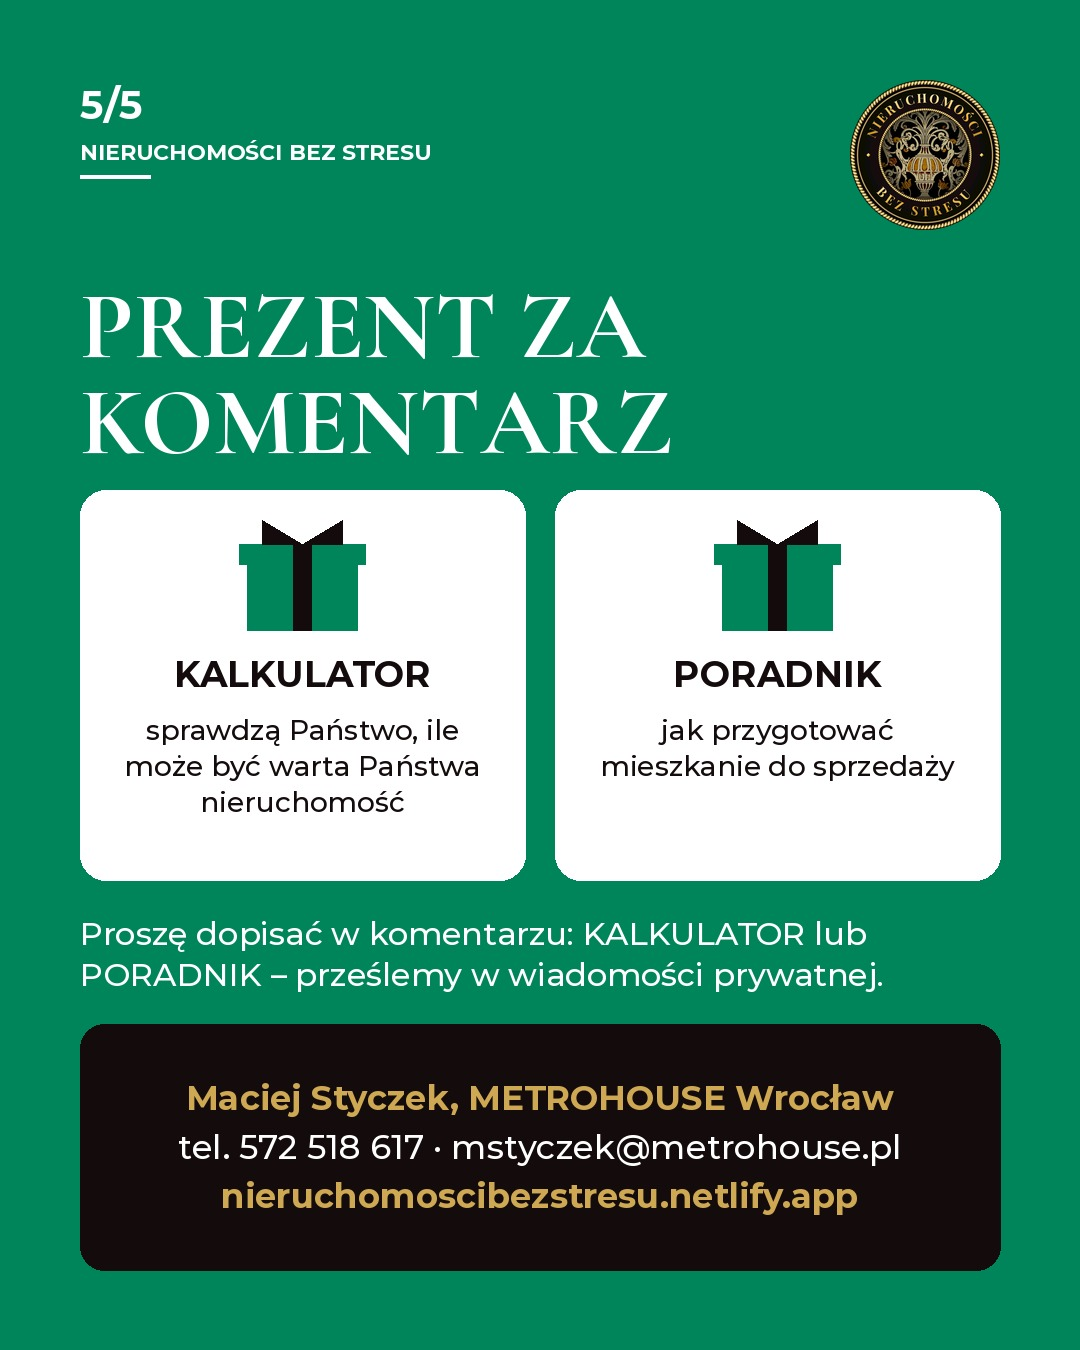
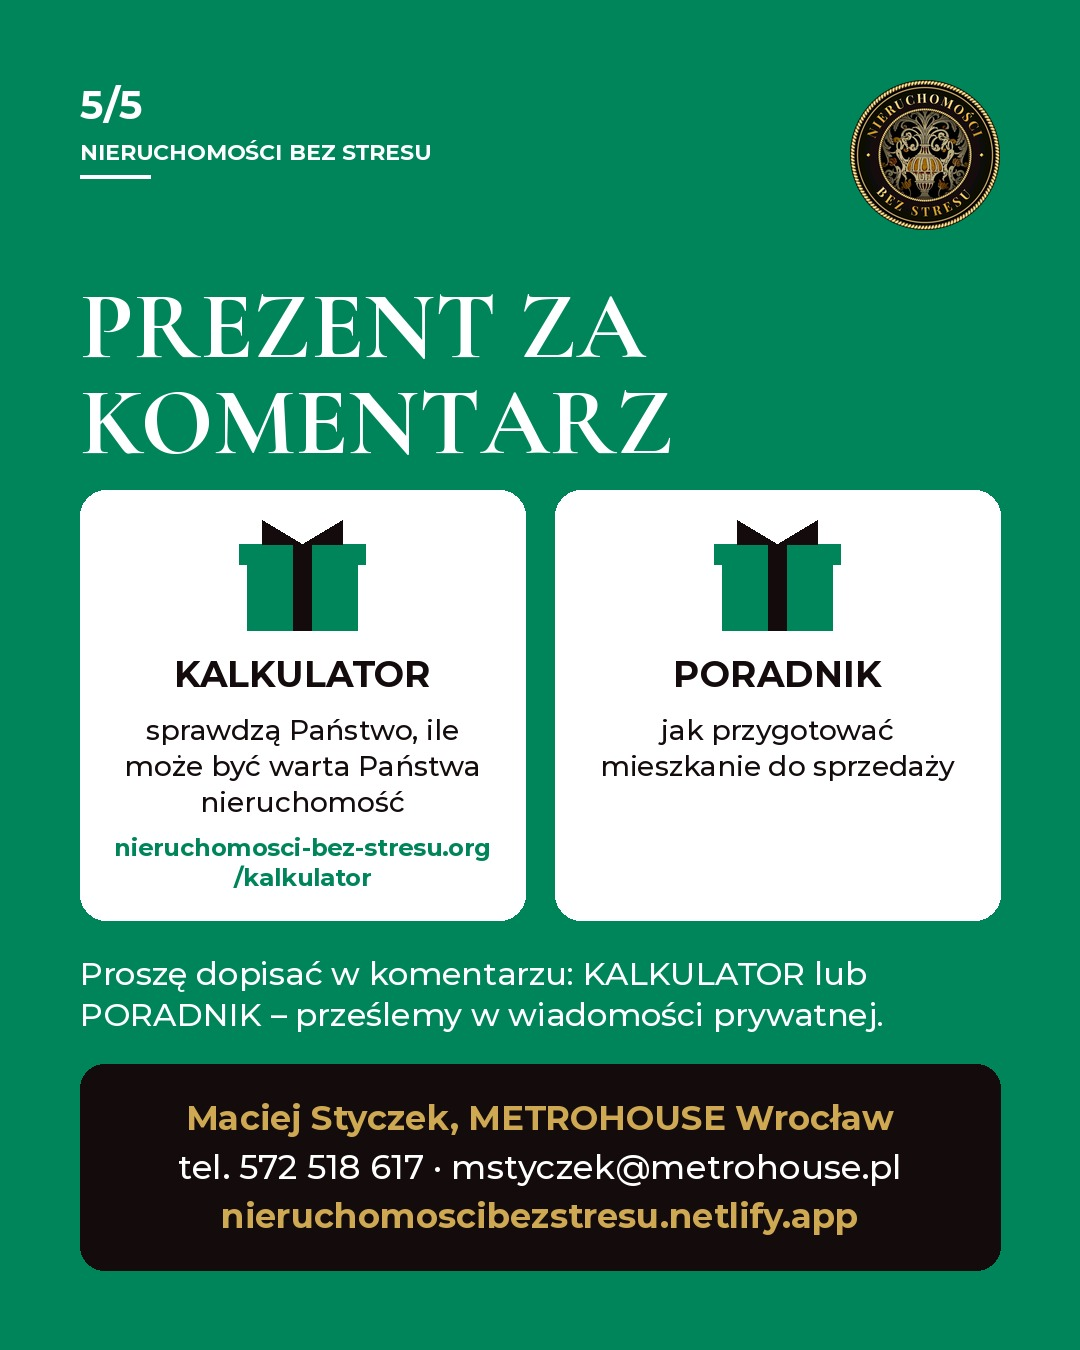
Dodaj link do kalkulatora w poście i na slajdzie 5
Claude-Session: https://claude.ai/code/session_016CSz72ixcAJkDnqqqfxwXU

Changed region(s): [[0.0611, 0.6222, 0.9472, 0.9333]]

diff --git a/posty/2026-11-agenci-irytuje/generuj_karuzele.py b/posty/2026-11-agenci-irytuje/generuj_karuzele.py
@@ -1,0 +1,343 @@
+# Karuzela „Co irytuje w agentach nieruchomości?” – 5 slajdów 1080x1350.
+from PIL import Image, ImageDraw, ImageFont
+import os
+import sys
+
+FD = '/tmp/claude-0/-home-user-claude-config/62174e4f-e878-5a2d-87d0-29fb4de8cbfa/scratchpad/fonty/'
+SERIF = FD + 'cormorant-garamond-700.ttf'
+M500 = FD + 'montserrat-500.ttf'
+M700 = FD + 'montserrat-700.ttf'  # brak wagi 800 -> 700
+LOGO = '/home/user/claude-config/assets/logo/logo-ciemne-tlo.webp'
+OUT = '/home/user/claude-config/posty/2026-11-agenci-irytuje/'
+PREVIEW = '/tmp/claude-0/-home-user-claude-config/62174e4f-e878-5a2d-87d0-29fb4de8cbfa/scratchpad/karuzela-podglad.jpg'
+
+W, H, M = 1080, 1350, 80
+WHITE, DARK, GOLD = (255, 255, 255), (20, 12, 12), (206, 168, 82)
+BG = ['#D62839', '#2F5BEA', '#D9480F', '#9C1BB5', '#00855A']  # karmin, niebieski, pomarańcz, fiolet-magenta, szmaragd
+
+
+def hexrgb(h):
+    h = h.lstrip('#')
+    return tuple(int(h[i:i + 2], 16) for i in (0, 2, 4))
+
+
+def lum(c):
+    def ch(v):
+        v /= 255
+        return v / 12.92 if v <= 0.03928 else ((v + 0.055) / 1.055) ** 2.4
+    r, g, b = (ch(x) for x in c)
+    return 0.2126 * r + 0.7152 * g + 0.0722 * b
+
+
+def contrast(a, b):
+    la, lb = sorted((lum(a), lum(b)), reverse=True)
+    return (la + 0.05) / (lb + 0.05)
+
+
+def F(path, size):
+    return ImageFont.truetype(path, size)
+
+
+def tw(font, s):
+    return font.getlength(s)
+
+
+def wrap(text, font, maxw):
+    lines, cur = [], ''
+    for w in text.split():
+        t = (cur + ' ' + w).strip()
+        if tw(font, t) <= maxw or not cur:
+            cur = t
+        else:
+            lines.append(cur)
+            cur = w
+    if cur:
+        lines.append(cur)
+    return lines
+
+
+def fit(text, path, maxw, maxh, start, minimum, gap=1.12):
+    """Największy rozmiar, przy którym tekst mieści się w ramce (żadne słowo nie wystaje)."""
+    for size in range(start, minimum - 1, -2):
+        f = F(path, size)
+        lines = wrap(text, f, maxw)
+        lh = int(size * gap)
+        if all(tw(f, l) <= maxw for l in lines) and lh * len(lines) <= maxh:
+            return f, lines, lh
+    raise SystemExit(f'Tekst się nie mieści: {text!r}')
+
+
+def block(d, x, y, lines, f, lh, fill, align='left', width=None):
+    for i, l in enumerate(lines):
+        lx = x
+        if align == 'center':
+            lx = x + (width - tw(f, l)) / 2
+        d.text((lx, y + i * lh), l, font=f, fill=fill)
+    return y + lh * len(lines)
+
+
+_logo = None
+
+
+def logo(size):
+    global _logo
+    if _logo is None:
+        _logo = Image.open(LOGO).convert('RGB')
+    im = _logo.resize((size, size), Image.LANCZOS)  # kwadrat -> kwadrat, proporcje zachowane
+    mask = Image.new('L', (size * 4, size * 4), 0)
+    ImageDraw.Draw(mask).ellipse((0, 0, size * 4 - 1, size * 4 - 1), fill=255)
+    return im, mask.resize((size, size), Image.LANCZOS)
+
+
+def arrow(d, x, y, length, color, w=5):
+    d.line((x, y, x + length, y), fill=color, width=w)
+    d.polygon([(x + length + 4, y), (x + length - 14, y - 11), (x + length - 14, y + 11)], fill=color)
+
+
+def base(n):
+    bg = hexrgb(BG[n - 1])
+    img = Image.new('RGB', (W, H), bg)
+    d = ImageDraw.Draw(img)
+    # numer slajdu + nazwa marki (lewy górny róg)
+    d.text((M, M), f'{n}/5', font=F(M700, 40), fill=WHITE)
+    d.text((M, M + 58), 'NIERUCHOMOŚCI BEZ STRESU', font=F(M700, 22), fill=WHITE)
+    d.line((M, M + 96, M + 70, M + 96), fill=WHITE, width=4)
+    # logo – zawsze prawy górny róg
+    ls = 150
+    li, lm = logo(ls)
+    img.paste(li, (W - M - ls, M), lm)
+    return img, d, bg
+
+
+def footer_cta(d, bg):
+    """Wspólna stopka-CTA na slajdach 2–4: ciemna pigułka, złoty tekst + strzałka."""
+    text = 'Proszę napisać w komentarzu, co Państwa irytuje'
+    f, lines, lh = fit(text, M700, W - 2 * M - 88 - 100, 40, 32, 22)
+    h = 96
+    y0 = H - M - h
+    d.rounded_rectangle((M, y0, W - M, H - M), radius=h // 2, fill=DARK)
+    tx = M + 44 + (W - 2 * M - 88 - 100 - tw(f, lines[0])) / 2
+    ty = y0 + (h - f.size) / 2 - f.size * 0.12
+    d.text((tx, ty), lines[0], font=f, fill=GOLD)
+    arrow(d, W - M - 44 - 60, y0 + h / 2, 56, GOLD)
+    return y0
+
+
+def heading_sub(d, title, sub, top, bottom, title_max=92):
+    """Nagłówek (szeryf, biały) + podtytuł (Montserrat 500) dopasowane do pasa [top, bottom]."""
+    maxw = W - 2 * M
+    fs, sl, slh = fit(sub, M500, maxw, 150, 40, 28, 1.3)
+    sub_h = slh * len(sl)
+    fh, hl, hlh = fit(title, SERIF, maxw, bottom - top - sub_h - 36, title_max, 52, 1.05)
+    y = block(d, M, top, hl, fh, hlh, WHITE)
+    y += 30
+    d.line((M, y, M + 90, y), fill=WHITE, width=5)
+    block(d, M, y + 26, sl, fs, slh, WHITE)
+
+
+# ---------- Slajd 1: hook + pigułka CTA ----------
+def s1():
+    img, d, bg = base(1)
+    maxw = W - 2 * M
+    fh, hl, hlh = fit('CO NAJBARDZIEJ IRYTUJE PAŃSTWA W AGENTACH NIERUCHOMOŚCI?', SERIF, maxw, 560, 130, 70, 1.0)
+    y = block(d, M, 300, hl, fh, hlh, WHITE)
+    # pigułka CTA – biała, ciemny tekst
+    y += 60
+    fp, pl, _ = fit('PROSZĘ NAPISAĆ W KOMENTARZU', M700, maxw - 100, 50, 40, 26)
+    ph = 110
+    d.rounded_rectangle((M, y, W - M, y + ph), radius=ph // 2, fill=WHITE)
+    d.text((M + (maxw - tw(fp, pl[0])) / 2, y + (ph - fp.size) / 2 - fp.size * 0.12), pl[0], font=fp, fill=DARK)
+    y += ph + 34
+    f5, fb = F(M500, 36), F(M700, 36)
+    d.text((M, y), 'i odebrać prezent:', font=f5, fill=WHITE)
+    y += 50
+    segs = [('KALKULATOR', fb), (' lub ', f5), ('PORADNIK', fb)]
+    x = M
+    for s, f in segs:
+        d.text((x, y), s, font=f, fill=WHITE)
+        x += tw(f, s)
+    # przesuń →
+    fs = F(M700, 30)
+    t = 'przesuń'
+    tx = W - M - 70 - tw(fs, t)
+    d.text((tx, H - M - 36), t, font=fs, fill=WHITE)
+    arrow(d, W - M - 56, H - M - 36 + 20, 52, WHITE)
+    return img
+
+
+# ---------- Slajd 2: telefon + dymek „...” ----------
+def s2():
+    img, d, bg = base(2)
+    # telefon (kształty)
+    px, py, pw, ph = M, 300, 230, 400
+    d.rounded_rectangle((px, py, px + pw, py + ph), radius=36, fill=DARK)
+    d.rounded_rectangle((px + 18, py + 46, px + pw - 18, py + ph - 56), radius=14, fill=bg)
+    d.rounded_rectangle((px + pw / 2 - 30, py + 18, px + pw / 2 + 30, py + 28), radius=5, fill=(70, 60, 60))
+    d.ellipse((px + pw / 2 - 16, py + ph - 46, px + pw / 2 + 16, py + ph - 14), outline=(90, 80, 80), width=3)
+    # na ekranie: przekreślona słuchawka -> kółko „brak odpowiedzi”
+    cx, cy = px + pw / 2, py + ph / 2 - 5
+    d.ellipse((cx - 50, cy - 50, cx + 50, cy + 50), outline=WHITE, width=8)
+    d.line((cx - 34, cy + 34, cx + 34, cy - 34), fill=WHITE, width=8)
+    # dymek z trzema kropkami (cisza)
+    bx0, by0, bx1, by1 = px + pw + 60, 340, W - M, 540
+    d.rounded_rectangle((bx0, by0, bx1, by1), radius=60, fill=WHITE)
+    d.polygon([(bx0 + 10, by1 - 60), (bx0 - 40, by1 + 20), (bx0 + 90, by1 - 6)], fill=WHITE)
+    for i in range(3):
+        cxx = (bx0 + bx1) / 2 + (i - 1) * 90
+        d.ellipse((cxx - 22, (by0 + by1) / 2 - 22, cxx + 22, (by0 + by1) / 2 + 22), fill=(190, 200, 225))
+    fl = F(M700, 26)
+    lab = 'ODPOWIEDŹ AGENTA'
+    d.text(((bx0 + bx1) / 2 - tw(fl, lab) / 2, by1 + 26), lab, font=fl, fill=WHITE)
+    fy = footer_cta(d, bg)
+    heading_sub(d, 'Cisza po pierwszym telefonie?', 'Dzwonią Państwo, a potem… nic.', 760, fy - 50)
+    return img
+
+
+# ---------- Slajd 3: okienka OGŁOSZENIE vs RZECZYWISTOŚĆ ----------
+def house(d, x, y, s, wall, roof, win, door):
+    d.polygon([(x, y + s * 0.45), (x + s / 2, y), (x + s, y + s * 0.45)], fill=roof)
+    d.rectangle((x + s * 0.12, y + s * 0.45, x + s * 0.88, y + s), fill=wall)
+    d.rectangle((x + s * 0.22, y + s * 0.55, x + s * 0.42, y + s * 0.72), fill=win)
+    d.rectangle((x + s * 0.58, y + s * 0.62, x + s * 0.76, y + s), fill=door)
+
+
+def s3():
+    img, d, bg = base(3)
+    gap = 40
+    pw = (W - 2 * M - gap) / 2
+    y0, ph = 290, 400
+    fl = F(M700, 26)
+    for i, (lab, panel) in enumerate([('OGŁOSZENIE', WHITE), ('RZECZYWISTOŚĆ', DARK)]):
+        x0 = M + i * (pw + gap)
+        d.rounded_rectangle((x0, y0, x0 + pw, y0 + ph), radius=24, fill=panel)
+        s = 220
+        hx, hy = x0 + (pw - s) / 2, y0 + 50
+        if i == 0:
+            # „pałac”: słońce, dom w kolorze slajdu, gwiazdki
+            d.ellipse((x0 + pw - 110, y0 + 30, x0 + pw - 40, y0 + 100), fill=GOLD)
+            house(d, hx, hy, s, bg, DARK, WHITE, GOLD)
+            for sx, sy in [(x0 + 50, y0 + 70), (x0 + 70, y0 + 210)]:
+                d.polygon([(sx, sy - 18), (sx + 6, sy - 6), (sx + 18, sy), (sx + 6, sy + 6), (sx, sy + 18),
+                           (sx - 6, sy + 6), (sx - 18, sy), (sx - 6, sy - 6)], fill=GOLD)
+        else:
+            # „zaskoczenie”: szary dom, pęknięcie, znak zapytania
+            house(d, hx, hy + 10, s, (95, 88, 88), (60, 54, 54), (40, 34, 34), (60, 54, 54))
+            d.line([(hx + s * 0.5, hy + s * 0.5), (hx + s * 0.44, hy + s * 0.62), (hx + s * 0.52, hy + s * 0.72),
+                    (hx + s * 0.46, hy + s * 0.84)], fill=DARK, width=5)
+            fq = F(SERIF, 120)
+            d.text((x0 + pw - 80, y0 + 10), '?', font=fq, fill=GOLD)
+        # pasek z etykietą
+        d.rounded_rectangle((x0, y0 + ph - 74, x0 + pw, y0 + ph), radius=24, fill=DARK if i == 0 else WHITE,
+                            corners=(False, False, True, True))
+        fl2, ll, _ = fit(lab, M700, pw - 30, 34, 28, 18)
+        d.text((x0 + (pw - tw(fl2, ll[0])) / 2, y0 + ph - 74 + (74 - fl2.size) / 2 - 4), ll[0], font=fl2,
+               fill=GOLD if i == 0 else DARK)
+    fy = footer_cta(d, bg)
+    heading_sub(d, 'Zdjęcia, które nie mają nic wspólnego z rzeczywistością?',
+                'W ogłoszeniu pałac, na miejscu – zaskoczenie.', y0 + ph + 60, fy - 50, 84)
+    return img
+
+
+# ---------- Slajd 4: duży znak % ----------
+def s4():
+    img, d, bg = base(4)
+    r = 230
+    cx, cy = W / 2, 300 + r
+    d.ellipse((cx - r, cy - r, cx + r, cy + r), fill=DARK)
+    d.ellipse((cx - r + 18, cy - r + 18, cx + r - 18, cy + r - 18), outline=GOLD, width=4)
+    fp = F(SERIF, 360)
+    bb = d.textbbox((0, 0), '%', font=fp)
+    d.text((cx - (bb[0] + bb[2]) / 2, cy - (bb[1] + bb[3]) / 2), '%', font=fp, fill=GOLD)
+    # mała metka „na końcu”
+    tag = 'NA KOŃCU?'
+    ft = F(M700, 28)
+    tx0 = cx + r * 0.45
+    d.rounded_rectangle((tx0, cy + r - 70, tx0 + tw(ft, tag) + 50, cy + r - 14), radius=28, fill=WHITE)
+    d.text((tx0 + 25, cy + r - 70 + 12), tag, font=ft, fill=DARK)
+    fy = footer_cta(d, bg)
+    heading_sub(d, 'Prowizja, o której dowiadują się Państwo na końcu?',
+                'Koszty powinny być jasne od pierwszej rozmowy.', cy + r + 50, fy - 50, 84)
+    return img
+
+
+# ---------- Slajd 5: prezenty + kontakt ----------
+def gift(d, cx, y, s, box, ribbon):
+    d.rectangle((cx - s / 2, y + s * 0.35, cx + s / 2, y + s), fill=box)
+    d.rectangle((cx - s / 2 - 8, y + s * 0.22, cx + s / 2 + 8, y + s * 0.4), fill=box)
+    d.rectangle((cx - s * 0.08, y + s * 0.22, cx + s * 0.08, y + s), fill=ribbon)
+    b = y + s * 0.22  # kokarda: dwa trójkąty
+    d.polygon([(cx, b), (cx - s * 0.36, y), (cx - s * 0.36, b)], fill=ribbon)
+    d.polygon([(cx, b), (cx + s * 0.36, y), (cx + s * 0.36, b)], fill=ribbon)
+
+
+def s5():
+    img, d, bg = base(5)
+    maxw = W - 2 * M
+    fh, hl, hlh = fit('PREZENT ZA KOMENTARZ', SERIF, maxw - 200, 200, 96, 60, 1.0)
+    y = block(d, M, 268, hl, fh, hlh, WHITE) + 30
+    gap = 30
+    cw = (maxw - gap) / 2
+    ch = 430
+    cards = [('KALKULATOR', 'sprawdzą Państwo, ile może być warta Państwa nieruchomość'),
+             ('PORADNIK', 'jak przygotować mieszkanie do sprzedaży')]
+    for i, (t, desc) in enumerate(cards):
+        x0 = M + i * (cw + gap)
+        d.rounded_rectangle((x0, y, x0 + cw, y + ch), radius=26, fill=WHITE)
+        gift(d, x0 + cw / 2, y + 30, 110, bg, DARK)
+        ft, tl, _ = fit(t, M700, cw - 50, 44, 36, 24)
+        d.text((x0 + (cw - tw(ft, tl[0])) / 2, y + 162), tl[0], font=ft, fill=DARK)
+        fd, dl, dlh = fit(desc, M500, cw - 50, ch - 230, 28, 20, 1.3)
+        block(d, x0 + 25, y + 222, dl, fd, dlh, DARK, 'center', cw - 50)
+        if i == 0:
+            # adres kalkulatora w dwóch wierszach, wyrównany do dołu karty
+            ul = ['nieruchomosci-bez-stresu.org', '/kalkulator']
+            fu, _, ulh = fit(ul[0], M700, cw - 50, 40, 26, 18, 1.25)
+            assert y + 222 + dlh * len(dl) + 12 <= y + ch - 28 - ulh * 2, 'adres koliduje z opisem'
+            block(d, x0 + 25, y + ch - 28 - ulh * 2, ul, fu, ulh, bg, 'center', cw - 50)
+    y += ch + 34
+    fi, il, ilh = fit('Proszę dopisać w komentarzu: KALKULATOR lub PORADNIK – prześlemy w wiadomości prywatnej.',
+                      M500, maxw, 120, 32, 22, 1.3)
+    y = block(d, M, y, il, fi, ilh, WHITE) + 28
+    # blok kontaktowy – ciemny, złoty
+    bh = H - M - y
+    d.rounded_rectangle((M, y, W - M, H - M), radius=24, fill=DARK)
+    lines = [('Maciej Styczek, METROHOUSE Wrocław', M700, GOLD),
+             ('tel. 572 518 617 · mstyczek@metrohouse.pl', M500, WHITE),
+             ('nieruchomoscibezstresu.netlify.app', M700, GOLD)]
+    inner = maxw - 60
+    sizes = []
+    for t, p, _ in lines:
+        f, l, _ = fit(t, p, inner, 44, 34, 18)
+        assert len(l) == 1, t
+        sizes.append(f)
+    fsz = min(f.size for f in sizes)
+    lh = int(fsz * 1.45)
+    ty = y + (bh - lh * 3) / 2 + 4
+    for i, (t, p, c) in enumerate(lines):
+        f = F(p, fsz)
+        d.text((M + (maxw - tw(f, t)) / 2, ty + i * lh), t, font=f, fill=c)
+    assert bh >= lh * 3 + 20, f'Za mało miejsca na kontakt: {bh}'
+    return img
+
+
+if __name__ == '__main__':
+    os.makedirs(OUT, exist_ok=True)
+    for i, b in enumerate(BG, 1):
+        print(f'slajd {i} {b}: biały {contrast(WHITE, hexrgb(b)):.2f}:1')
+    print(f'złoto na czerni {contrast(GOLD, DARK):.2f}:1')
+    # python3 generuj_karuzele.py 5  -> generuje tylko wskazane slajdy (bez podglądu)
+    only = [int(a) for a in sys.argv[1:]]
+    if only:
+        for n in only:
+            [s1, s2, s3, s4, s5][n - 1]().save(f'{OUT}slajd-{n}.jpg', quality=92)
+        raise SystemExit('ok')
+    slides = [s1(), s2(), s3(), s4(), s5()]
+    for i, im in enumerate(slides, 1):
+        im.save(f'{OUT}slajd-{i}.jpg', quality=92)
+    tw_, th_ = 432, 540
+    pad = 20
+    prev = Image.new('RGB', (pad + 5 * (tw_ + pad), th_ + 2 * pad), (235, 235, 235))
+    for i, im in enumerate(slides):
+        prev.paste(im.resize((tw_, th_), Image.LANCZOS), (pad + i * (tw_ + pad), pad))
+    prev.save(PREVIEW, quality=90)
+    print('ok')

diff --git a/posty/2026-11-agenci-irytuje/opis-posta.md b/posty/2026-11-agenci-irytuje/opis-posta.md
@@ -8,6 +8,8 @@ Co najbardziej irytuje Państwa w agentach nieruchomości? Cisza po pierwszym te
 
 Prezent do wyboru: proszę dopisać w komentarzu KALKULATOR (sprawdzą Państwo, ile może być warta Państwa nieruchomość) lub PORADNIK (jak przygotować mieszkanie do sprzedaży) – prześlemy go w wiadomości prywatnej.
 
+KALKULATOR – sprawdzą Państwo orientacyjną wartość mieszkania: https://nieruchomosci-bez-stresu.org/kalkulator/
+
 Maciej Styczek, METROHOUSE Wrocław
 tel. 572 518 617
 mstyczek@metrohouse.pl
